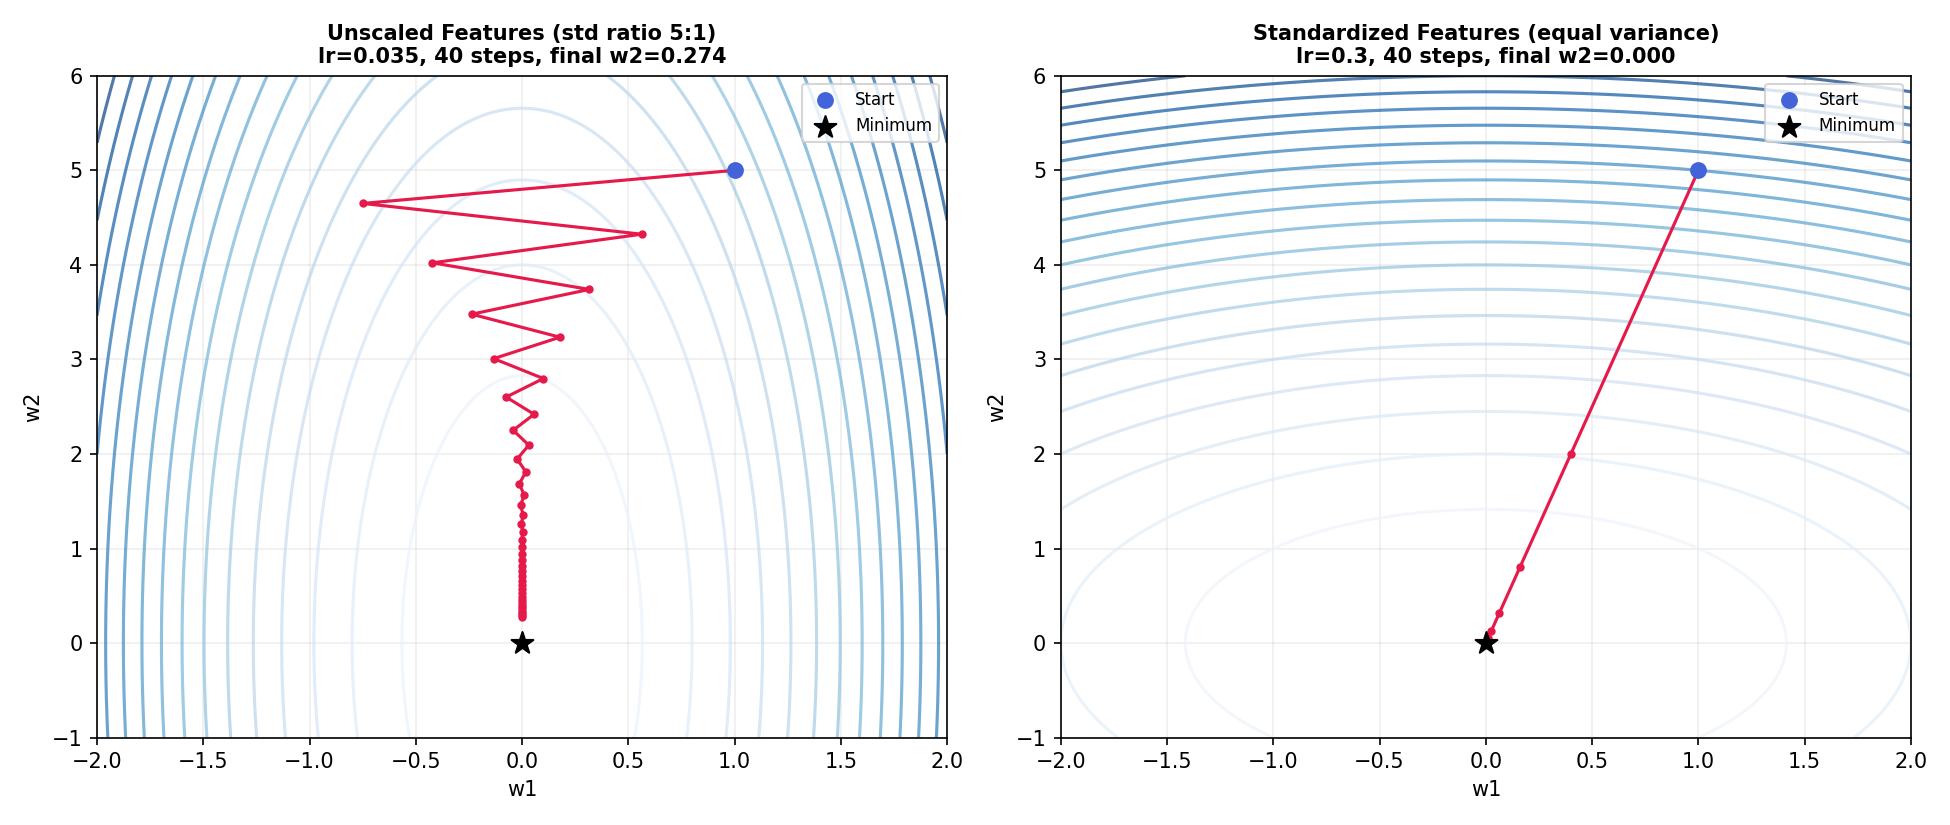
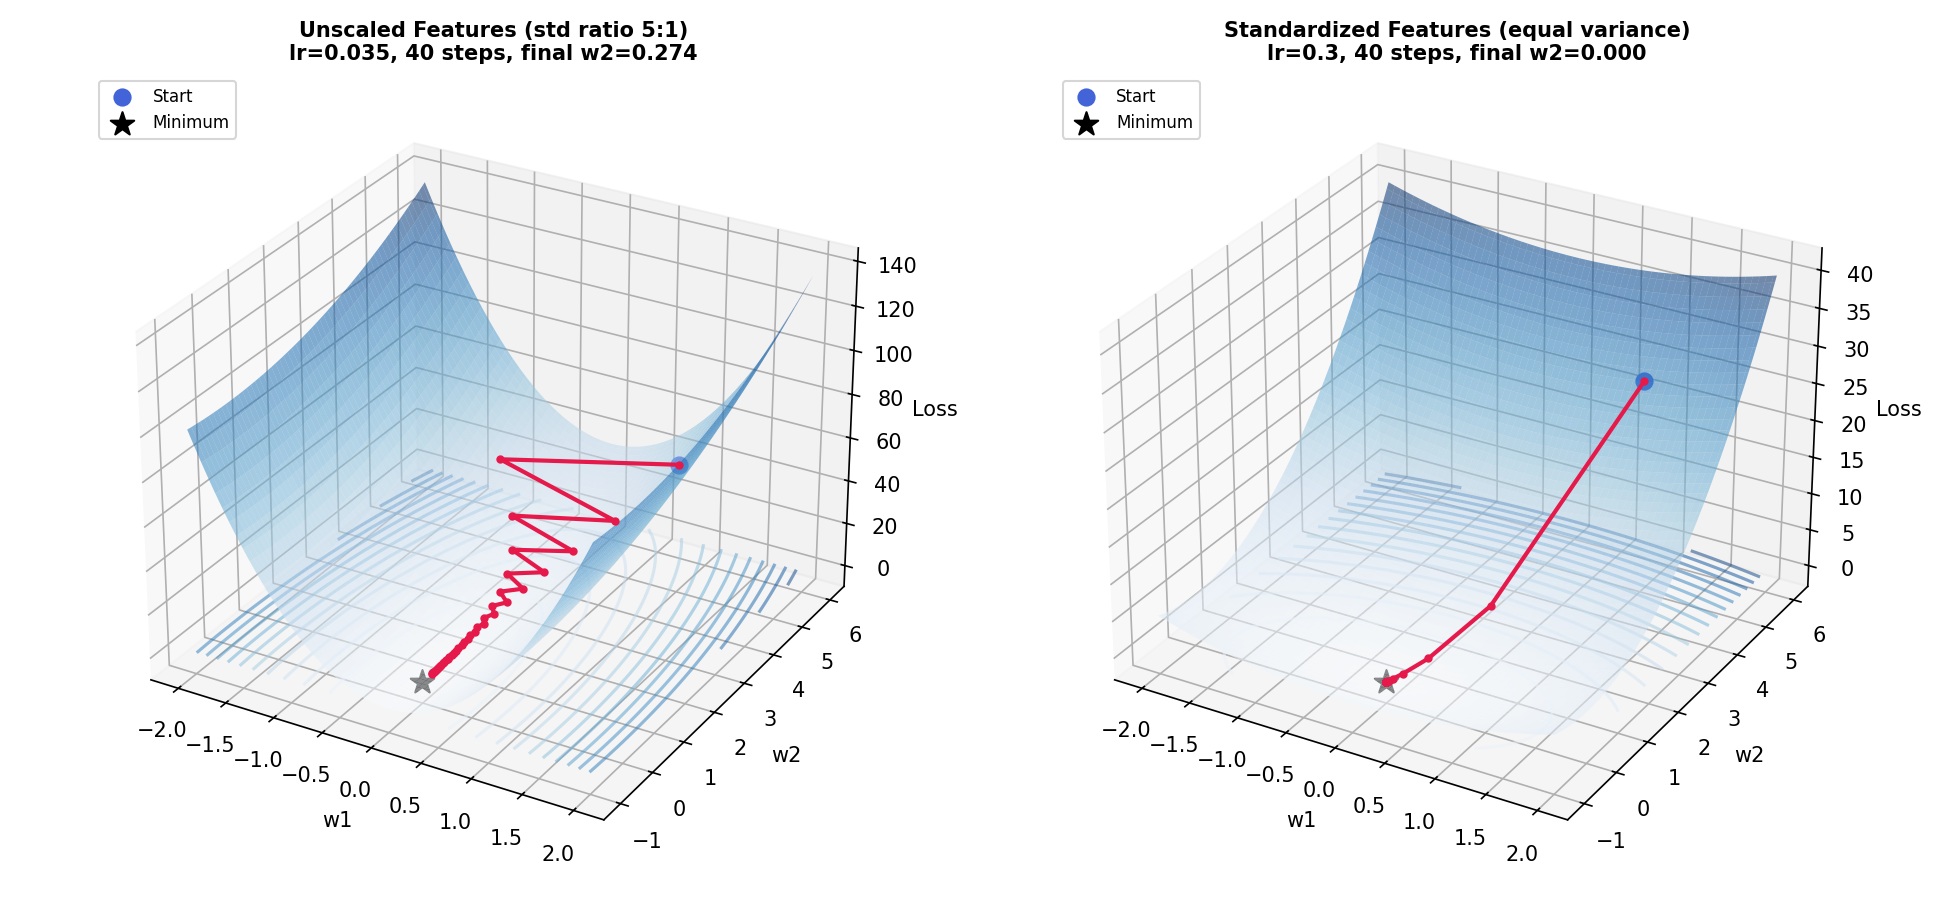
Render ch7 feature scaling comparison as 3D bowls

diff --git a/scripts/gen_ch7_feature_scaling.py b/scripts/gen_ch7_feature_scaling.py
@@ -12,12 +12,17 @@ steepest direction (barely under 1/a), which is what you're forced into in
 practice: a single global learning rate has to respect the steepest
 direction, starving progress along the shallow one.
 
+Rendered as two 3D bowl surfaces with the gradient descent path traced on
+top, so the "stretched canyon vs. round bowl" shape is visible directly
+instead of only being inferred from contour spacing.
+
 Run: python3 scripts/gen_ch7_feature_scaling.py
 Writes: public/images/ch7-feature-scaling.png
 """
 
 import numpy as np
 import matplotlib.pyplot as plt
+from mpl_toolkits.mplot3d import Axes3D  # noqa: F401
 
 
 def run(a, b, lr, steps, w0):
@@ -28,6 +33,10 @@ def run(a, b, lr, steps, w0):
         w = w - lr * grad
         path.append(w.copy())
     return np.array(path)
+
+
+def loss(a, b, w1, w2):
+    return a * w1**2 + b * w2**2
 
 
 steps = 40
@@ -41,29 +50,35 @@ a_scaled, b_scaled = 1, 1
 lr_scaled = 0.3
 path_scaled = run(a_scaled, b_scaled, lr_scaled, steps, w0)
 
-fig, axes = plt.subplots(1, 2, figsize=(13, 5.5))
+fig = plt.figure(figsize=(13, 6))
 
-w1_range = np.linspace(-2, 2, 200)
-w2_range = np.linspace(-1, 6, 200)
+w1_range = np.linspace(-2, 2, 120)
+w2_range = np.linspace(-1, 6, 120)
 W1, W2 = np.meshgrid(w1_range, w2_range)
 
-for ax, (a, b, path, lr, title) in zip(
-    axes,
+for i, (a, b, path, lr, title) in enumerate(
     [
         (a_unscaled, b_unscaled, path_unscaled, lr_unscaled, "Unscaled Features (std ratio 5:1)"),
         (a_scaled, b_scaled, path_scaled, lr_scaled, "Standardized Features (equal variance)"),
-    ],
+    ]
 ):
-    Z = a * W1**2 + b * W2**2
-    ax.contour(W1, W2, Z, levels=20, cmap="Blues", alpha=0.7)
-    ax.plot(path[:, 0], path[:, 1], color="#e6194b", linewidth=1.5, marker="o", markersize=3)
-    ax.scatter([w0[0]], [w0[1]], color="#4363d8", s=50, zorder=5, label="Start")
-    ax.scatter([0], [0], color="black", marker="*", s=120, zorder=5, label="Minimum")
+    ax = fig.add_subplot(1, 2, i + 1, projection="3d")
+    Z = loss(a, b, W1, W2)
+
+    ax.plot_surface(W1, W2, Z, cmap="Blues", alpha=0.55, linewidth=0, antialiased=True, rstride=2, cstride=2)
+    ax.contour(W1, W2, Z, levels=15, cmap="Blues", offset=Z.min(), alpha=0.5)
+
+    path_z = loss(a, b, path[:, 0], path[:, 1])
+    ax.plot(path[:, 0], path[:, 1], path_z, color="#e6194b", linewidth=2, marker="o", markersize=3, zorder=10)
+    ax.scatter([w0[0]], [w0[1]], [loss(a, b, w0[0], w0[1])], color="#4363d8", s=60, zorder=11, label="Start")
+    ax.scatter([0], [0], [0], color="black", marker="*", s=140, zorder=11, label="Minimum")
+
     ax.set_title(f"{title}\nlr={lr}, {steps} steps, final w2={path[-1,1]:.3f}", fontsize=10, fontweight="bold")
     ax.set_xlabel("w1")
     ax.set_ylabel("w2")
-    ax.legend(fontsize=8, loc="upper right")
-    ax.grid(alpha=0.2)
+    ax.set_zlabel("Loss")
+    ax.view_init(elev=28, azim=-60)
+    ax.legend(fontsize=8, loc="upper left")
 
 plt.tight_layout()
 plt.savefig("public/images/ch7-feature-scaling.png", dpi=150)
